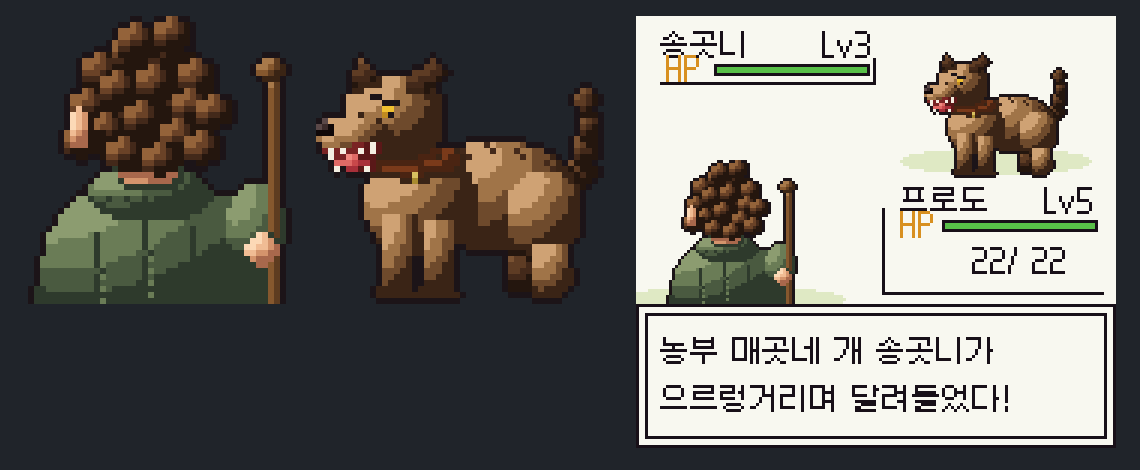
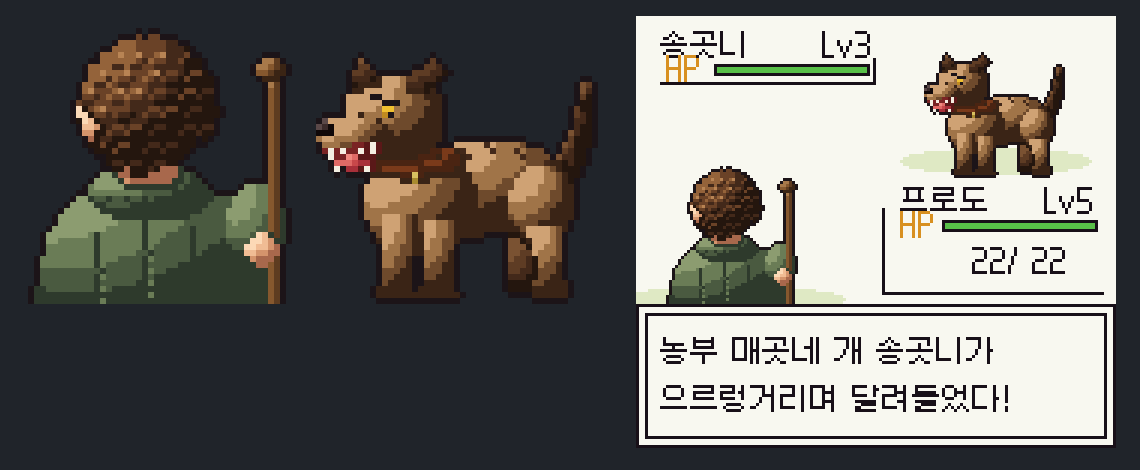
반지 원정: 프로도 곱슬머리·귀, 송곳니 몸통·다리·꼬리 다듬기
Claude-Session: https://claude.ai/code/session_01SP5jTWYuC4SCRJYicqB99F

diff --git a/ring/art48.js b/ring/art48.js
@@ -93,14 +93,29 @@
     for (let x = 15; x < 30; x += 3) px(s, x, 30, CLOAK[0]);
     // 목덜미·셔츠 깃
     ell(s, 22, 26, 5, 2.5, SKIN, { flat: 0.3 });
-    // 머리 — 바탕 덩어리 위에 곱슬 덩어리를 겹친다
-    ell(s, 22, 15, 11.5, 11.5, HAIR, { bias: -0.15 });
-    const curls = [[14, 9], [19, 6], [25, 6], [30, 10], [12, 15], [17, 12], [23, 11], [29, 15], [33, 16], [15, 19], [21, 17],
-                   [27, 20], [11, 21], [18, 23], [24, 24], [31, 22], [20, 4], [26, 3]];
-    curls.forEach(([x, y], i) => ell(s, x, y, 3.1, 2.8, HAIR, { bias: i % 3 === 0 ? 0.05 : -0.02 }));
+    // 머리 — 바탕 덩어리(조금 작게) + 곱슬 무늬: 빛 쪽으로 열린 작은 호(밝은 3점) + 아래 그늘 2점
+    const HX = 22, HY = 15.5, HR = 9.6;
+    const inHead = (x, y) => ((x + 0.5 - HX) / HR) ** 2 + ((y + 0.5 - HY) / (HR + 0.6)) ** 2 <= 1;
+    // 실루엣 가장자리를 곱슬곱슬하게: 테두리에 작은 혹을 붙인다
+    const bumps = [];
+    for (let k = 0; k < 15; k++) { const t = Math.PI * (0.95 + k * 1.15 / 14) ; bumps.push([HX + Math.cos(t) * (HR + 0.3), HY + Math.sin(t) * (HR + 0.9)]); }
+    for (let k = 0; k < 4; k++) { const t = Math.PI * (0.55 + k * 0.13); bumps.push([HX + Math.cos(t) * (HR + 0.3), HY + Math.sin(t) * (HR + 0.6)]); }
+    const inHair = (x, y) => inHead(x - 0.5, y - 0.5) || bumps.some(([bx, by]) => (x - bx) ** 2 + (y - by) ** 2 <= 3.2);
+    part(s, inHair, HX - 1, HY - 1, HR + 1.5, HR + 2, HAIR, { bias: -0.08 });
+    const hid = s.n - 1;
+    const tone = (x, y) => { const d = (-(x - HX) * 0.6 - (y - HY) * 0.8) / HR; return d > 0.35 ? 3 : d > -0.35 ? 2 : 1; };
+    for (let row = 0, y = 7; y <= 25; y += 3, row++) for (let x = 11 + (row % 2) * 2; x <= 34; x += 4) {
+      const cx = x + ((x * 7 + y * 3) % 3 === 0 ? 1 : 0), cy = y;
+      if (!inb(s, cx, cy) || s.id[cy * s.w + cx] !== hid) continue;
+      const t = tone(cx, cy), hi = HAIR[t], lo = HAIR[Math.max(0, t - 2)];
+      const set = (X, Y, c) => { if (inb(s, X, Y) && s.id[Y * s.w + X] === hid) s.p[Y * s.w + X] = c; };
+      set(cx - 1, cy, hi); set(cx, cy - 1, hi); set(cx + 1, cy - 1, t === 3 ? '#b88454' : hi);
+      set(cx + 1, cy + 1, lo); set(cx, cy + 1, lo); set(cx + 2, cy, lo);
+    }
+    // 머리 아래쪽(목덜미)으로 드리운 그늘
+    for (let x = 14; x <= 30; x++) for (let y = 23; y <= 26; y++) if (s.id[y * s.w + x] === hid && !inHead(x, y - 2)) s.p[y * s.w + x] = HAIR[0];
     // 왼쪽 귀(살짝 뾰족한 호빗 귀)
-    ell(s, 10.5, 19, 2, 3, SKIN);
-    px(s, 10, 15, SKIN[2]); px(s, 10, 16, SKIN[2]);
+    poly(s, [[13, 21], [11, 19], [10, 15], [12, 16], [14, 18]], SKIN, { cx: 13, cy: 18, rx: 3, ry: 4 });
     return outline(s);
   }
 
@@ -110,15 +125,16 @@
   function maggotDog() {
     const s = mk(48, 48);
     // 꼬리 (치켜든)
-    [[44, 26], [45, 22], [45.5, 18], [45, 14]].forEach(([x, y], i) => ell(s, x, y, 2.6 - i * 0.3, 2.6, FUR_D));
+    for (let i = 0; i <= 12; i++) { const t = i / 12; ell(s, 41 + 4 * Math.sin(t * 1.7), 27 - 14 * t, 2.4 - t * 1.1, 2.2, FUR_D, { noShadow: true }); }
     // 뒷다리(먼 쪽)
     poly(s, [[32, 36], [37, 36], [38, 44], [35, 46], [32, 46]], FUR_D);
     // 몸통
-    ell(s, 30, 30, 14, 9, FUR);
+    ell(s, 29, 28.5, 13.5, 7.8, FUR);
+    poly(s, [[20, 30], [38, 30], [34, 36], [22, 37]], FUR, { cx: 29, cy: 28.5, rx: 13.5, ry: 7.8, bias: -0.1 });
     for (const [x, y] of [[24, 22], [28, 21], [33, 22], [38, 24]]) { px(s, x, y, FUR_D[1]); px(s, x + 1, y + 1, FUR_D[1]); } // 등 줄무늬
     // 뒷다리(가까운 쪽) 허벅지 + 발
-    ell(s, 38, 33, 6.5, 7.5, FUR);
-    poly(s, [[36, 38], [42, 38], [43, 45], [41, 47], [36, 47]], FUR);
+    ell(s, 37.5, 31.5, 5.5, 6.5, FUR);
+    poly(s, [[35, 35], [41, 35], [41, 41], [42, 47], [36, 47], [37, 41]], FUR);
     // 가슴
     ell(s, 17, 31, 9, 9.5, FUR, { bias: 0.08 });
     // 앞다리 두 개
